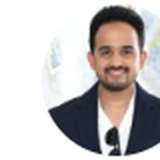
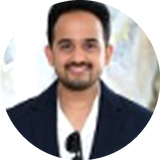
version 3

diff --git a/src/components/AboutFounder.jsx b/src/components/AboutFounder.jsx
@@ -25,7 +25,7 @@ export default function AboutFounder({ onOpenBooking }) {
 
           {/* Image Column with Premium Multi-Layer Editorial Frame */}
           <div className="lg:col-span-5 relative">
-            
+
             {/* Ambient Background Aura */}
             <div className="absolute -inset-4 bg-gradient-to-tr from-[#2650a8]/15 via-[#f4ba43]/15 to-transparent rounded-[36px] blur-xl opacity-80 pointer-events-none"></div>
 
@@ -45,12 +45,15 @@ export default function AboutFounder({ onOpenBooking }) {
                     <div className="min-w-0 flex-1">
                       <div className="flex items-center gap-1.5 mb-0.5">
                         <h4 className="font-heading font-extrabold text-sm sm:text-base text-[#000000] leading-none">Gaya</h4>
-                        <span className="inline-flex items-center gap-1 px-1.5 py-0.5 rounded-full bg-emerald-100 text-emerald-800 text-[9px] font-bold shrink-0">
-                          <span className="w-1.5 h-1.5 rounded-full bg-emerald-500"></span>
+                        <span className="inline-flex items-center gap-1.5 px-2 py-0.5 rounded-full bg-emerald-100 text-emerald-800 text-[9px] sm:text-[10px] font-bold shrink-0 border border-emerald-300/60">
+                          <span className="relative flex h-2 w-2 shrink-0">
+                            <span className="animate-ping absolute inline-flex h-full w-full rounded-full bg-emerald-400 opacity-75"></span>
+                            <span className="relative inline-flex rounded-full h-2 w-2 bg-emerald-500 shadow-xs"></span>
+                          </span>
                           Active
                         </span>
                       </div>
-                      <p className="text-[10px] sm:text-[11.5px] text-[#2650a8] font-semibold leading-tight truncate">
+                      <p className="text-[10px] sm:text-[11.5px] text-[#2650a8] font-semibold leading-tight whitespace-nowrap">
                         LinkedIn Personal Branding Strategist
                       </p>
                     </div>
@@ -71,8 +74,8 @@ export default function AboutFounder({ onOpenBooking }) {
             {/* Daily Posting Streak Badge with Heart Symbol & Compounding Quote */}
             <div className="mt-4 cyclic-card cyclic-delay-2 p-3.5 sm:p-4 rounded-2xl shadow-xs max-w-sm sm:max-w-md mx-auto lg:max-w-none">
               <div className="flex items-start gap-2.5 text-xs font-semibold text-slate-700 leading-relaxed">
-                <div className="p-1.5 rounded-full bg-rose-50 border border-rose-200/80 text-rose-500 shrink-0 mt-0.5">
-                  <Heart className="w-3.5 h-3.5 fill-rose-500" />
+                <div className="p-1.5 rounded-full bg-rose-50 border border-rose-200/80 text-rose-500 shrink-0 mt-0.5 shadow-xs">
+                  <Heart className="w-3.5 h-3.5 fill-rose-500 text-rose-500 animate-heartbeat" />
                 </div>
                 <span>Posting every single day since Sept 30, 2023. Built on real compounding, not fast food marketing.</span>
               </div>
@@ -92,7 +95,8 @@ export default function AboutFounder({ onOpenBooking }) {
             </span>
 
             <h2 className="font-heading font-extrabold text-2xl sm:text-3xl lg:text-4xl text-[#000000] tracking-tight leading-tight">
-              Gaya — <span className="highlight-swipe">LinkedIn Personal Branding Strategist</span>
+              <span className="inline-block">Gaya —</span>{' '}
+              <span className="highlight-swipe inline-block whitespace-normal md:whitespace-nowrap">LinkedIn Personal Branding Strategist</span>
             </h2>
 
             <div className="space-y-3.5 sm:space-y-4 text-xs sm:text-base text-slate-700 leading-relaxed font-subheading font-medium">
@@ -101,7 +105,16 @@ export default function AboutFounder({ onOpenBooking }) {
               </p>
 
               <p>
-                I have been posting on LinkedIn every single day since September 30, 2023 till today. After making several mistakes myself in this process, three core things stood out to grow your brand and that's how the framework was assembled: <span className="framework-special-font inline-flex items-center px-3 py-1 rounded-xl bg-[#2650a8]/10 border border-[#2650a8]/20 shadow-xs font-bold my-1 text-xs sm:text-sm tracking-tight">The Content - Connection - Conversation</span>.
+                I have been posting on LinkedIn every single day since September 30, 2023 till today. After making several mistakes myself in this process, three core things stood out to grow your brand and that's how the framework was assembled:{' '}
+                <span className="framework-glow-pill cursor-default">
+                  <span className="relative flex h-2 w-2 shrink-0">
+                    <span className="animate-ping absolute inline-flex h-full w-full rounded-full bg-[#f4ba43] opacity-75"></span>
+                    <span className="relative inline-flex rounded-full h-2 w-2 bg-[#f4ba43] shadow-xs"></span>
+                  </span>
+                  <span className="framework-pill-shimmer text-xs sm:text-[13.5px]">
+                    The Content <span className="text-[#f4ba43] font-black mx-1 inline-block">✦</span> Connection <span className="text-[#f4ba43] font-black mx-1 inline-block">✦</span> Conversation
+                  </span>
+                </span>.
               </p>
 
               <p>

diff --git a/src/index.css b/src/index.css
@@ -16,12 +16,54 @@
 }
 
 .framework-special-font {
-  font-family: var(--font-framework);
+  font-family: var(--font-poppins);
   font-weight: 800;
   letter-spacing: -0.015em;
   background: linear-gradient(135deg, #1d4088 0%, #2650a8 45%, #b45309 100%);
   -webkit-background-clip: text;
   -webkit-text-fill-color: transparent;
+}
+
+/* Signature 3-C Framework Highlight Pill & Effects */
+.framework-glow-pill {
+  position: relative;
+  display: inline-flex;
+  align-items: center;
+  gap: 0.5rem;
+  padding: 0.4rem 1rem;
+  border-radius: 9999px;
+  background: linear-gradient(135deg, #09142e 0%, #173275 50%, #0a1738 100%);
+  border: 1.5px solid rgba(244, 186, 67, 0.55);
+  box-shadow: 0 4px 20px -2px rgba(38, 80, 168, 0.3), 0 0 16px -2px rgba(244, 186, 67, 0.35), inset 0 1px 2px rgba(255, 255, 255, 0.25);
+  font-family: var(--font-poppins);
+  font-weight: 800;
+  vertical-align: middle;
+  margin: 0.25rem 0;
+  transition: all 0.35s cubic-bezier(0.16, 1, 0.3, 1);
+  text-decoration: none;
+}
+
+.framework-glow-pill:hover {
+  transform: translateY(-2px) scale(1.02);
+  border-color: rgba(244, 186, 67, 0.95);
+  box-shadow: 0 8px 30px -4px rgba(38, 80, 168, 0.5), 0 0 24px 2px rgba(244, 186, 67, 0.6), inset 0 1px 3px rgba(255, 255, 255, 0.4);
+}
+
+.framework-pill-shimmer {
+  background: linear-gradient(90deg,
+    #ffffff 0%,
+    #fef08a 25%,
+    #f4ba43 50%,
+    #93c5fd 75%,
+    #ffffff 100%
+  );
+  background-size: 200% auto;
+  -webkit-background-clip: text;
+  -webkit-text-fill-color: transparent;
+  animation: textShimmer 3.5s linear infinite;
+  font-family: var(--font-poppins);
+  font-weight: 800;
+  letter-spacing: -0.01em;
 }
 
 html {
@@ -633,6 +675,98 @@ h3,
 
 .animate-border-glow {
   animation: borderGlowPulse 4s ease-in-out infinite;
+}
+
+/* Heartbeat Animation for Founder Posting Streak */
+@keyframes heartbeat {
+  0% {
+    transform: scale(1);
+  }
+  14% {
+    transform: scale(1.24);
+  }
+  28% {
+    transform: scale(1);
+  }
+  42% {
+    transform: scale(1.24);
+  }
+  70% {
+    transform: scale(1);
+  }
+  100% {
+    transform: scale(1);
+  }
+}
+
+.animate-heartbeat {
+  animation: heartbeat 1.8s ease-in-out infinite;
+  transform-origin: center;
+}
+
+/* Proven Track Record Icon Micro-Animations */
+@keyframes iconBounceSubtle {
+  0%, 100% {
+    transform: translateY(0) scale(1);
+  }
+  50% {
+    transform: translateY(-4px) scale(1.08);
+  }
+}
+
+@keyframes trendUpMotion {
+  0%, 100% {
+    transform: translate(0, 0) scale(1);
+  }
+  50% {
+    transform: translate(2px, -3px) scale(1.12);
+  }
+}
+
+@keyframes awardShineMotion {
+  0%, 100% {
+    transform: rotate(0deg) scale(1);
+    filter: drop-shadow(0 0 2px rgba(38, 80, 168, 0.3));
+  }
+  25% {
+    transform: rotate(-6deg) scale(1.1);
+    filter: drop-shadow(0 0 6px rgba(244, 186, 67, 0.7));
+  }
+  50% {
+    transform: rotate(6deg) scale(1.1);
+    filter: drop-shadow(0 0 6px rgba(244, 186, 67, 0.7));
+  }
+  75% {
+    transform: rotate(0deg) scale(1.05);
+  }
+}
+
+@keyframes checkPulse {
+  0%, 100% {
+    transform: scale(1);
+    opacity: 0.92;
+  }
+  50% {
+    transform: scale(1.18);
+    opacity: 1;
+    filter: drop-shadow(0 0 4px rgba(244, 186, 67, 0.7));
+  }
+}
+
+.animate-icon-users {
+  animation: iconBounceSubtle 2.8s ease-in-out infinite;
+}
+
+.animate-icon-trend {
+  animation: trendUpMotion 2.4s ease-in-out infinite;
+}
+
+.animate-icon-award {
+  animation: awardShineMotion 3s ease-in-out infinite;
+}
+
+.animate-check-pulse {
+  animation: checkPulse 3.2s ease-in-out infinite;
 }
 
 /* Custom Scrollbar */

diff --git a/src/components/Results.jsx b/src/components/Results.jsx
@@ -113,7 +113,7 @@ export default function Results() {
           >
             <div className="flex justify-center mb-1.5 sm:mb-2">
               <div className="relative p-2 sm:p-2.5 rounded-xl bg-[#2650a8]/10 text-[#2650a8] group-hover:scale-110 transition-transform">
-                <Users className="w-4 h-4 sm:w-5 sm:h-5" />
+                <Users className="w-4 h-4 sm:w-5 sm:h-5 animate-icon-users" />
               </div>
             </div>
             <div className="font-heading font-extrabold text-2xl sm:text-4xl text-[#2650a8] mb-0.5 sm:mb-1">
@@ -130,7 +130,7 @@ export default function Results() {
           >
             <div className="flex justify-center mb-1.5 sm:mb-2">
               <div className="p-2 sm:p-2.5 rounded-xl bg-[#f4ba43]/20 text-[#b45309] group-hover:scale-110 transition-transform">
-                <TrendingUp className="w-4 h-4 sm:w-5 sm:h-5" />
+                <TrendingUp className="w-4 h-4 sm:w-5 sm:h-5 animate-icon-trend" />
               </div>
             </div>
             <div className="font-heading font-extrabold text-2xl sm:text-4xl text-[#b45309] mb-0.5 sm:mb-1">
@@ -147,7 +147,7 @@ export default function Results() {
           >
             <div className="flex justify-center mb-1.5 sm:mb-2">
               <div className="p-2 sm:p-2.5 rounded-xl bg-[#2650a8]/10 text-[#2650a8] group-hover:scale-110 transition-transform">
-                <Award className="w-4 h-4 sm:w-5 sm:h-5" />
+                <Award className="w-4 h-4 sm:w-5 sm:h-5 animate-icon-award" />
               </div>
             </div>
             <div className="font-heading font-extrabold text-2xl sm:text-4xl text-[#2650a8] mb-0.5 sm:mb-1">
@@ -192,7 +192,7 @@ export default function Results() {
                   <ul className="space-y-2.5 sm:space-y-3 mb-5 sm:mb-6">
                     {cs.results.map((res, rIdx) => (
                       <li key={rIdx} className="flex items-start gap-2 sm:gap-2.5 text-xs text-slate-700 font-semibold leading-relaxed">
-                        <CheckCircle className="w-3.5 h-3.5 sm:w-4 sm:h-4 text-[#f4ba43] shrink-0 mt-0.5" />
+                        <CheckCircle className="w-3.5 h-3.5 sm:w-4 sm:h-4 text-[#f4ba43] shrink-0 mt-0.5 animate-check-pulse" />
                         <span>{res}</span>
                       </li>
                     ))}
@@ -225,7 +225,7 @@ export default function Results() {
         >
           <div className="flex flex-col sm:flex-row items-center sm:items-start gap-3.5 sm:gap-4 text-center sm:text-left">
             <div className="p-3 sm:p-3.5 rounded-2xl bg-[#2650a8] text-white shrink-0 shadow-md">
-              <FileText className="w-5 h-5 sm:w-6 sm:h-6 text-[#f4ba43]" />
+              <FileText className="w-5 h-5 sm:w-6 sm:h-6 text-[#f4ba43] animate-float-slow" />
             </div>
             <div>
               <div className="flex flex-wrap items-center justify-center sm:justify-start gap-2 mb-1">
